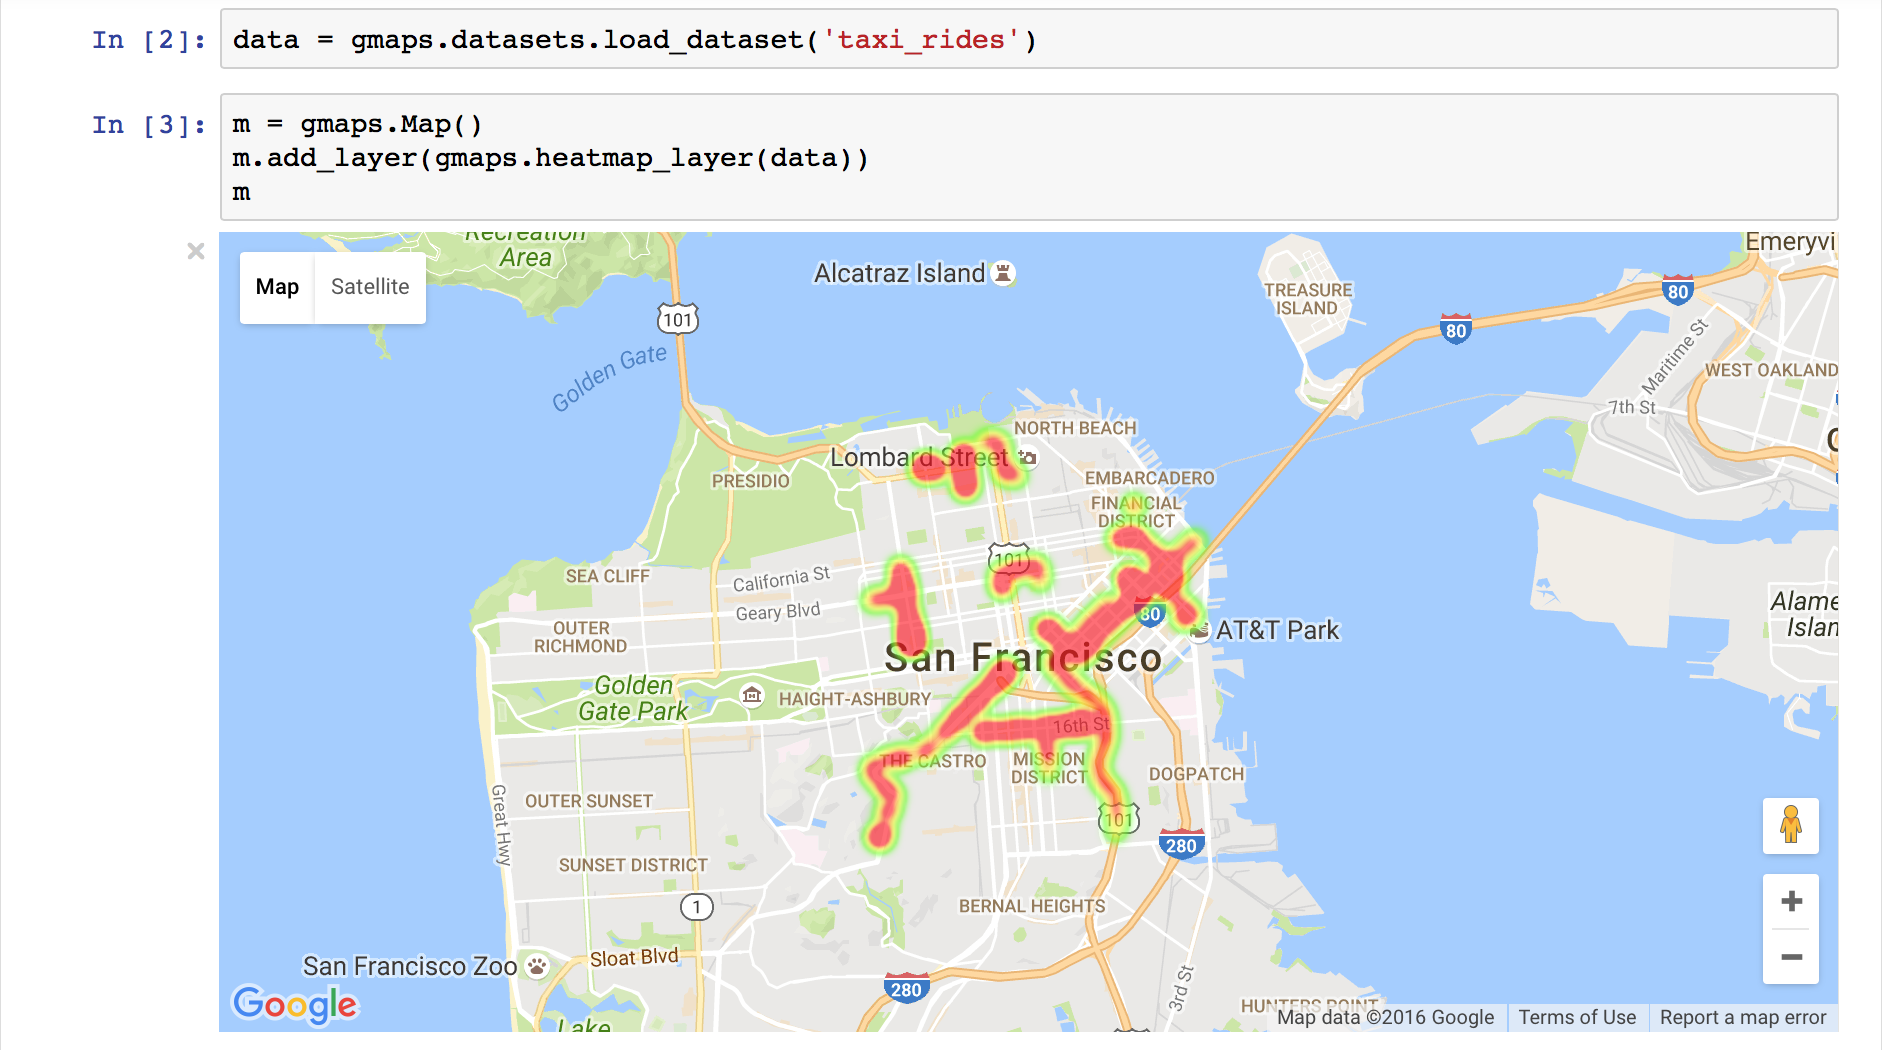
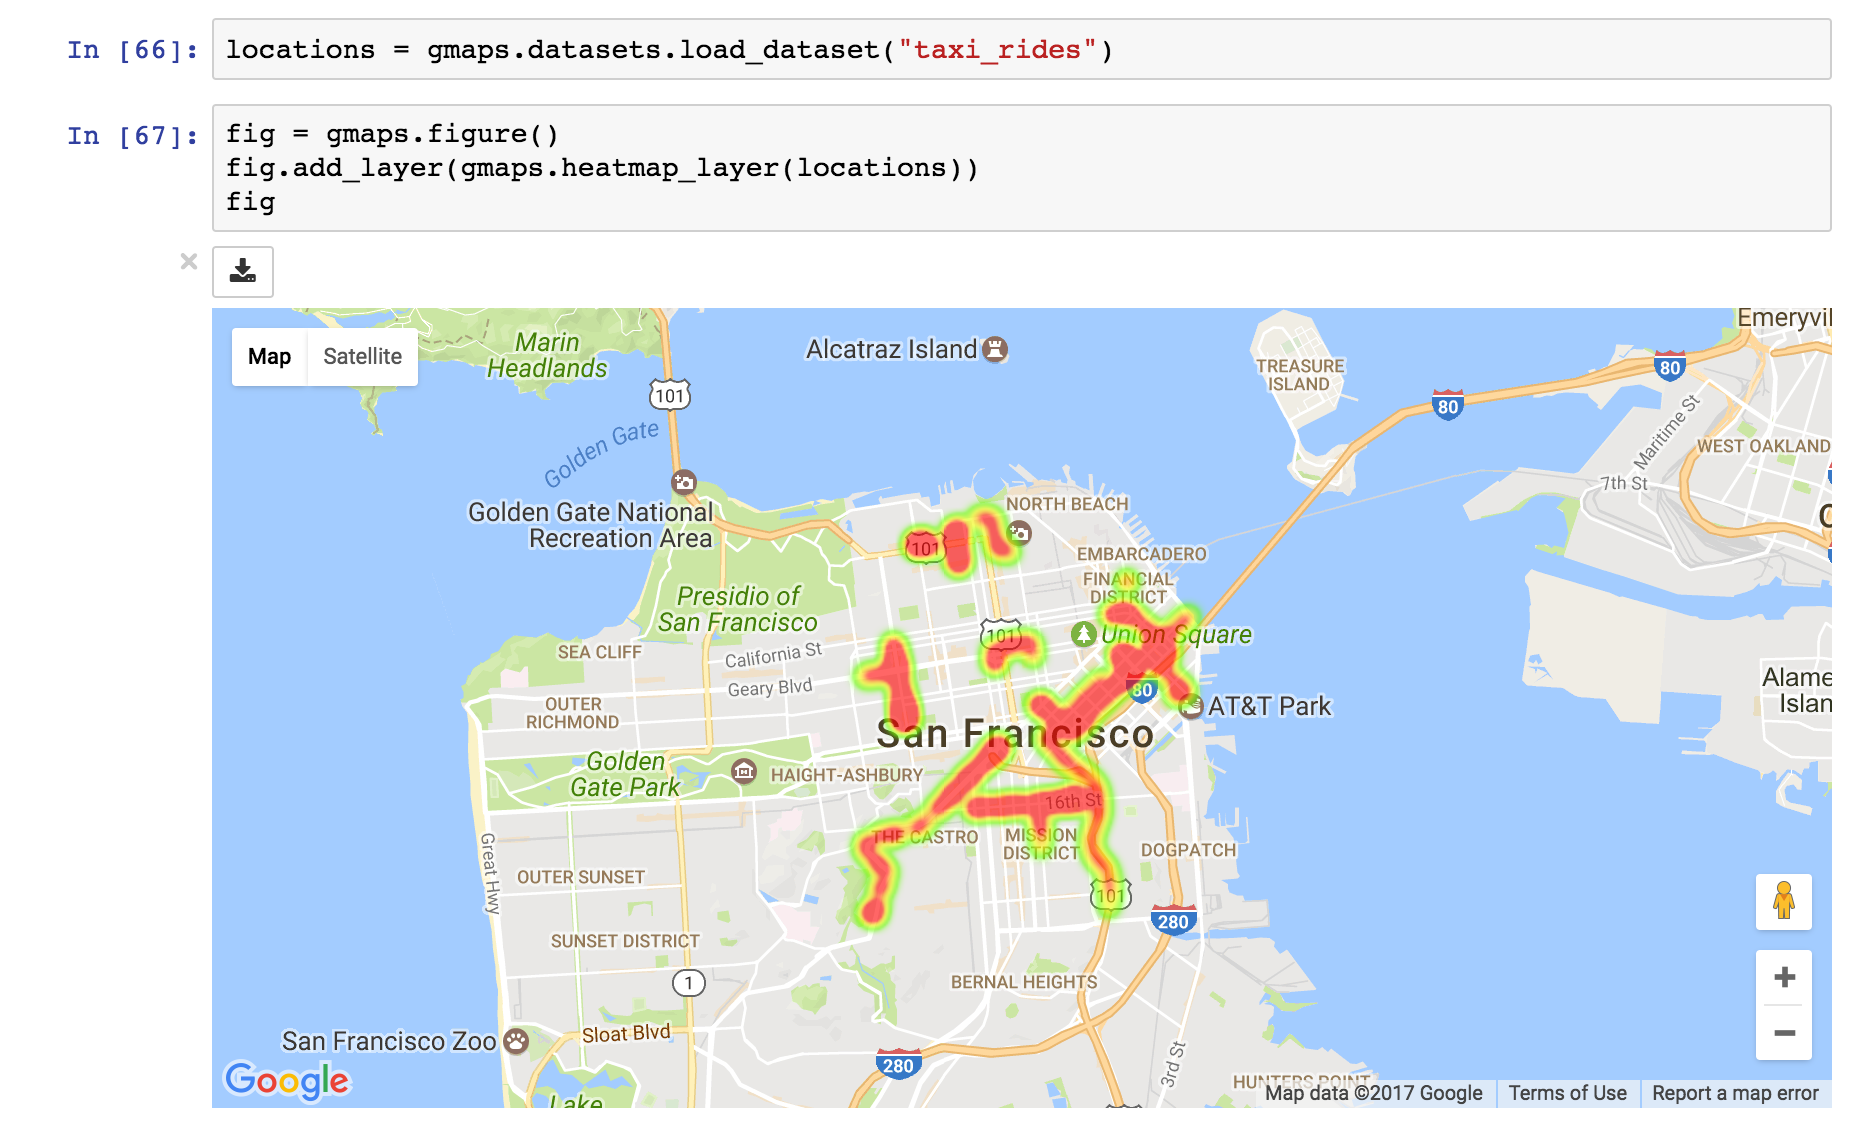
Adapt README for figure

Changed region(s): [[0.0311, 0.0, 0.9946, 1.0], [0.4352, 0.3048, 0.5595, 0.3352]]

diff --git a/README.rst b/README.rst
@@ -16,9 +16,9 @@ Let's plot a `heatmap <http://jupyter-gmaps.readthedocs.io/en/latest/gmaps.html#
     # load a Numpy array of (latitude, longitude) pairs
     In [2]: locations = gmaps.datasets.load_dataset("taxi_rides")
 
-    In [3]: m = gmaps.Map()
-            m.add_layer(gmaps.heatmap_layer(locations))
-            m
+    In [3]: fig = gmaps.figure()
+            fig.add_layer(gmaps.heatmap_layer(locations))
+            fig
 
 .. image:: docs/source/taxi_example.png
 
@@ -73,14 +73,14 @@ We can also plot chloropleth maps using `GeoJSON <http://jupyter-gmaps.readthedo
                     color = (0, 0, 0, 0.3)
                 colors.append(color)
 
-      In [4]: m = gmaps.Map(height="600px")
+      In [4]: fig = gmaps.figure()
               gini_layer = gmaps.geojson_layer(
                   countries_geojson,
                   fill_color=colors,
                   stroke_color=colors,
                   fill_opacity=0.8)
-              m.add_layer(gini_layer)
-              m
+              fig.add_layer(gini_layer)
+              fig
 
 .. image:: docs/source/geojson-2.png
 
@@ -94,11 +94,11 @@ Or, for coffee fans, a map of all Starbucks in the UK:
 
     In [2]: locations = gmaps.datasets.load_dataset("starbucks_uk")
 
-    In [3]: m = gmaps.Map()
+    In [3]: fig = gmaps.Map()
             starbucks_layer = gmaps.symbol_layer(
                 locations, fill_color="green", stroke_color="green", scale=2)
-            m.add_layer(starbucks_layer)
-            m
+            fig.add_layer(starbucks_layer)
+            fig
 
 .. image:: docs/source/starbucks-symbols.png
 
